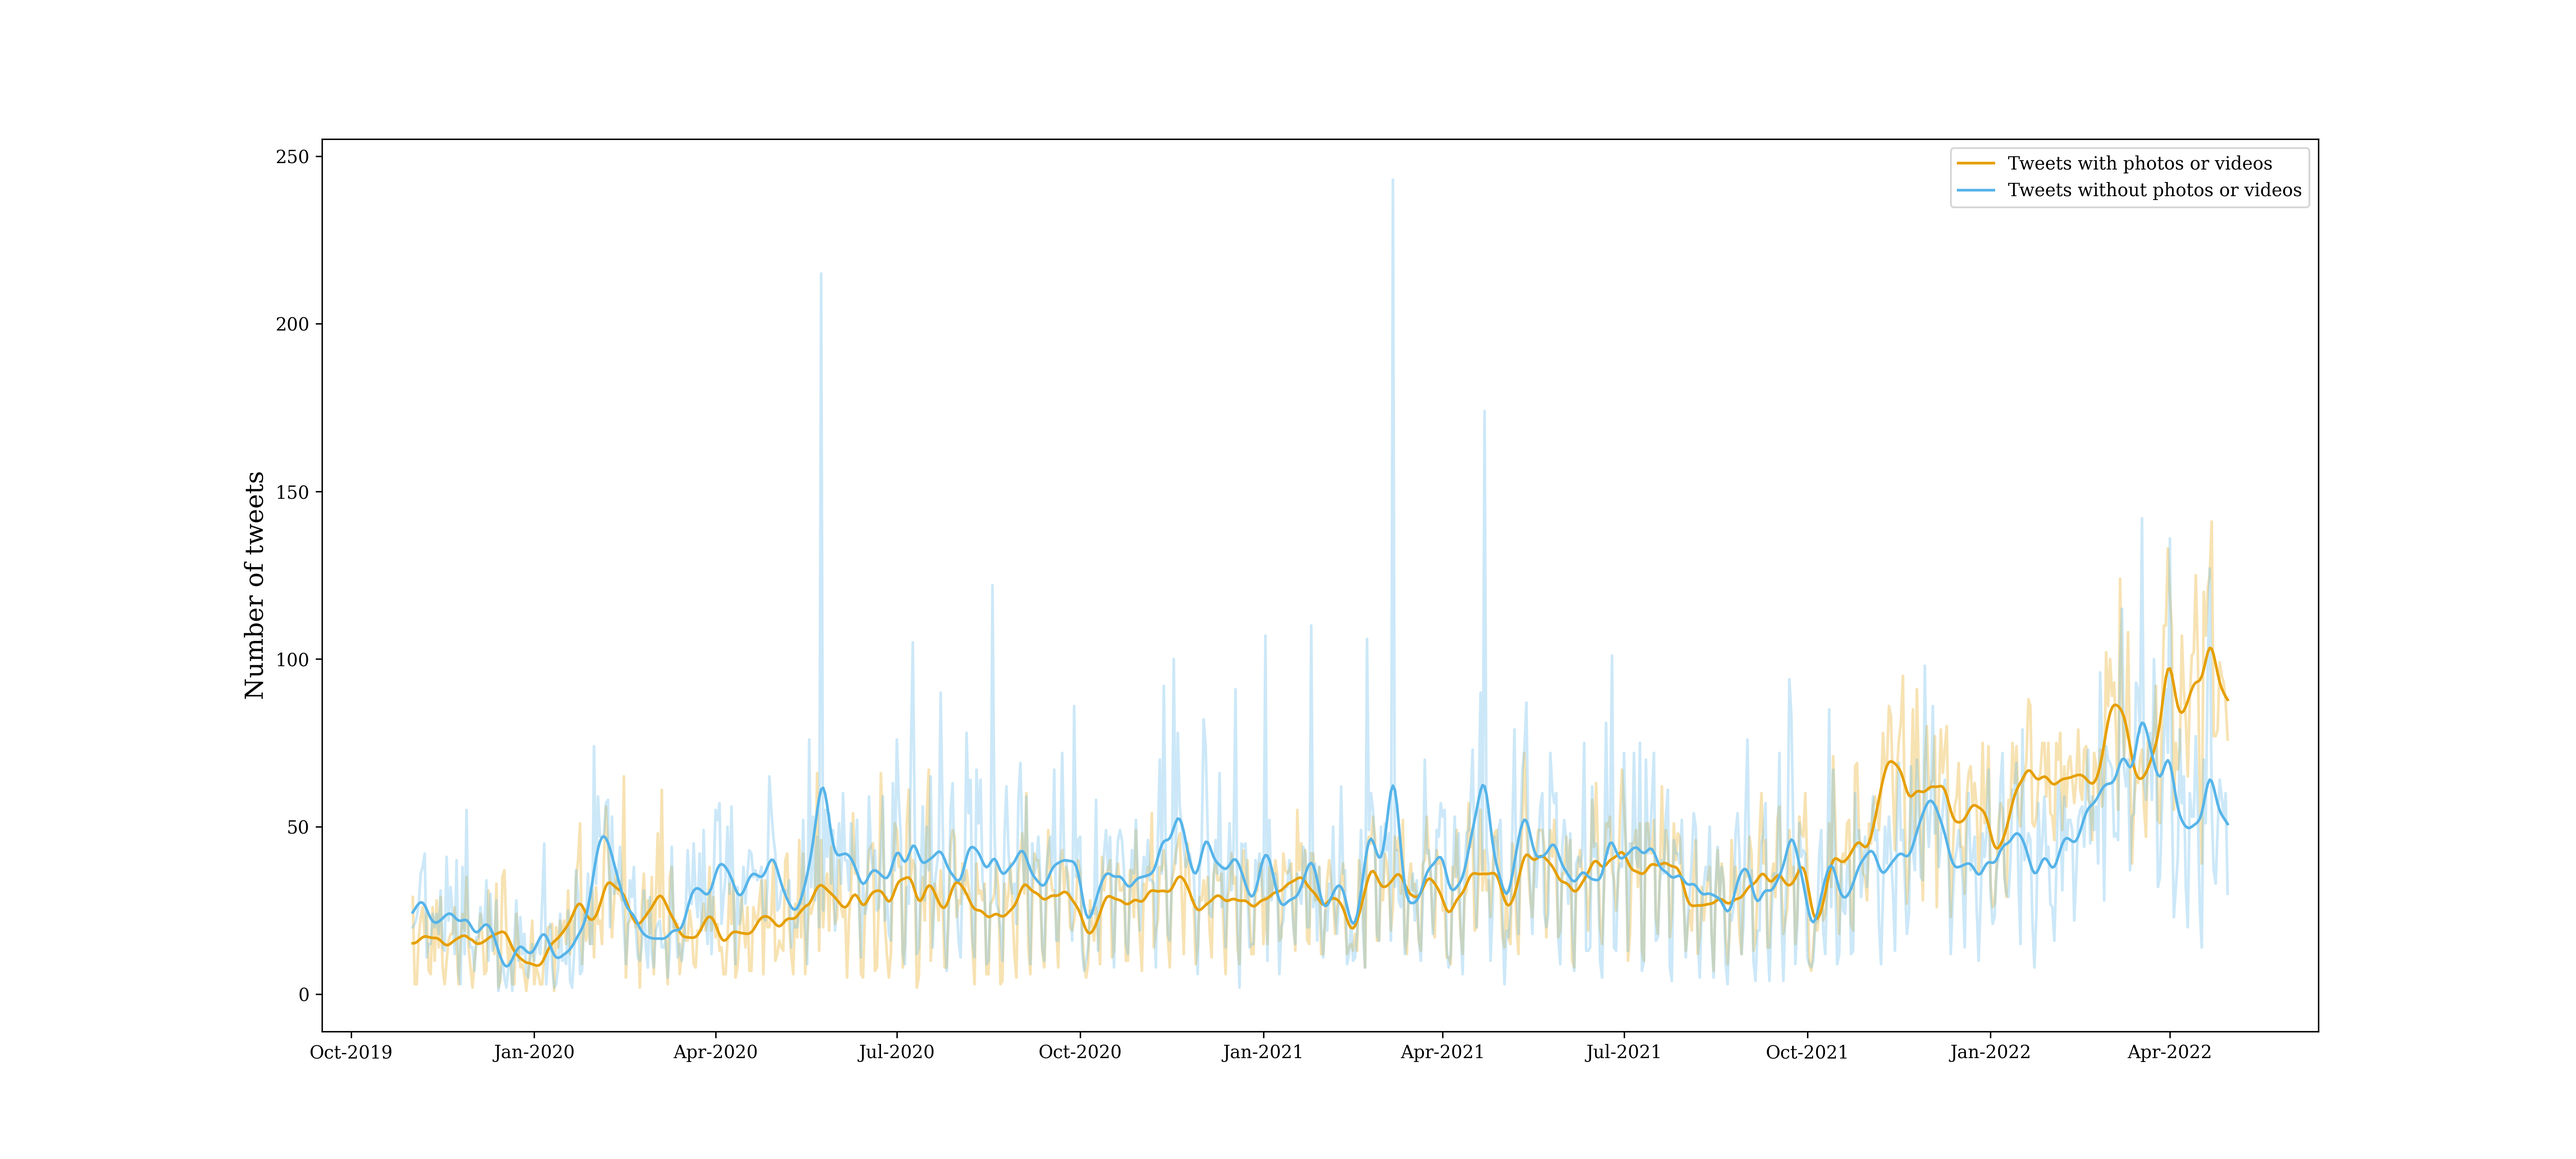
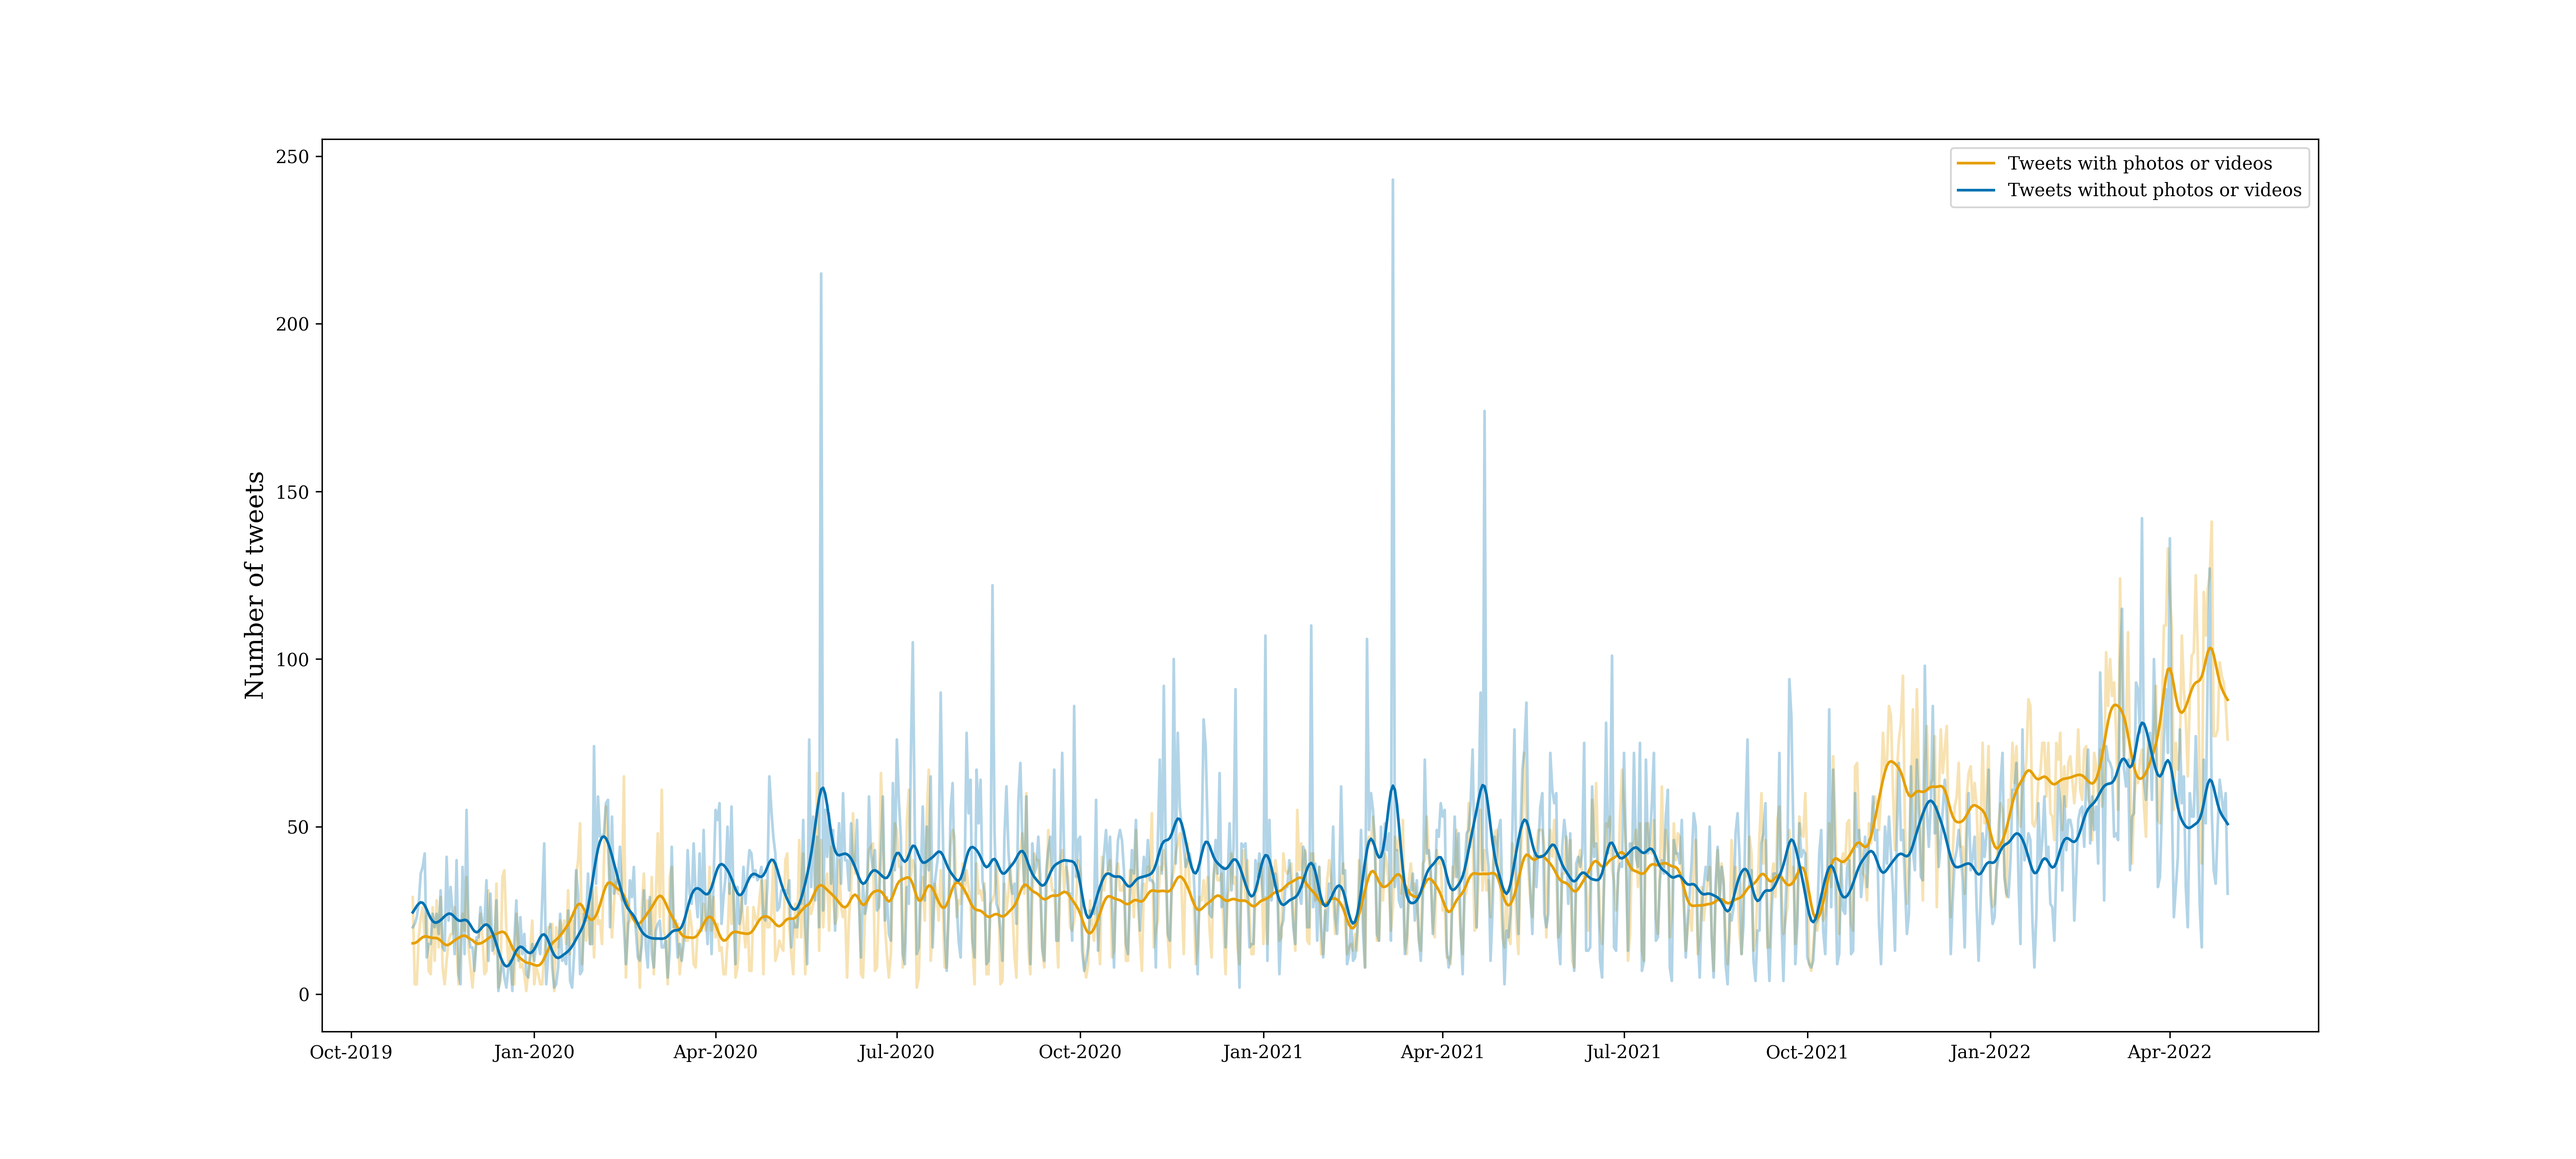
change colour

Changed region(s): [[0.1558, 0.56, 0.8727, 0.8711]]

diff --git a/media_use/src/generate_plots.py b/media_use/src/generate_plots.py
@@ -232,13 +232,13 @@ if __name__ == '__main__':
 
     fig, ax = plt.subplots(1, 1, figsize=(20, 9))
     ax.plot(count_media, alpha = 0.3, color = palette[0])
-    ax.plot(count_no_media, alpha = 0.3, color = palette[1])
+    ax.plot(count_no_media, alpha = 0.3, color = palette[4])
 
     gaussian_media = count_media.rolling(window=20, win_type='gaussian', center=True, min_periods=1).mean(std = 3)
     gaussian_no_media = count_no_media.rolling(window=20, win_type='gaussian', center=True, min_periods=1).mean(std = 3)
 
     ax.plot(gaussian_media, alpha = 1, label = "Tweets with photos or videos",  color = palette[0])
-    ax.plot(gaussian_no_media, alpha = 1, label = "Tweets without photos or videos", color =  palette[1])
+    ax.plot(gaussian_no_media, alpha = 1, label = "Tweets without photos or videos", color =  palette[4])
     
     ax.xaxis.set_major_formatter(date_form)
 
